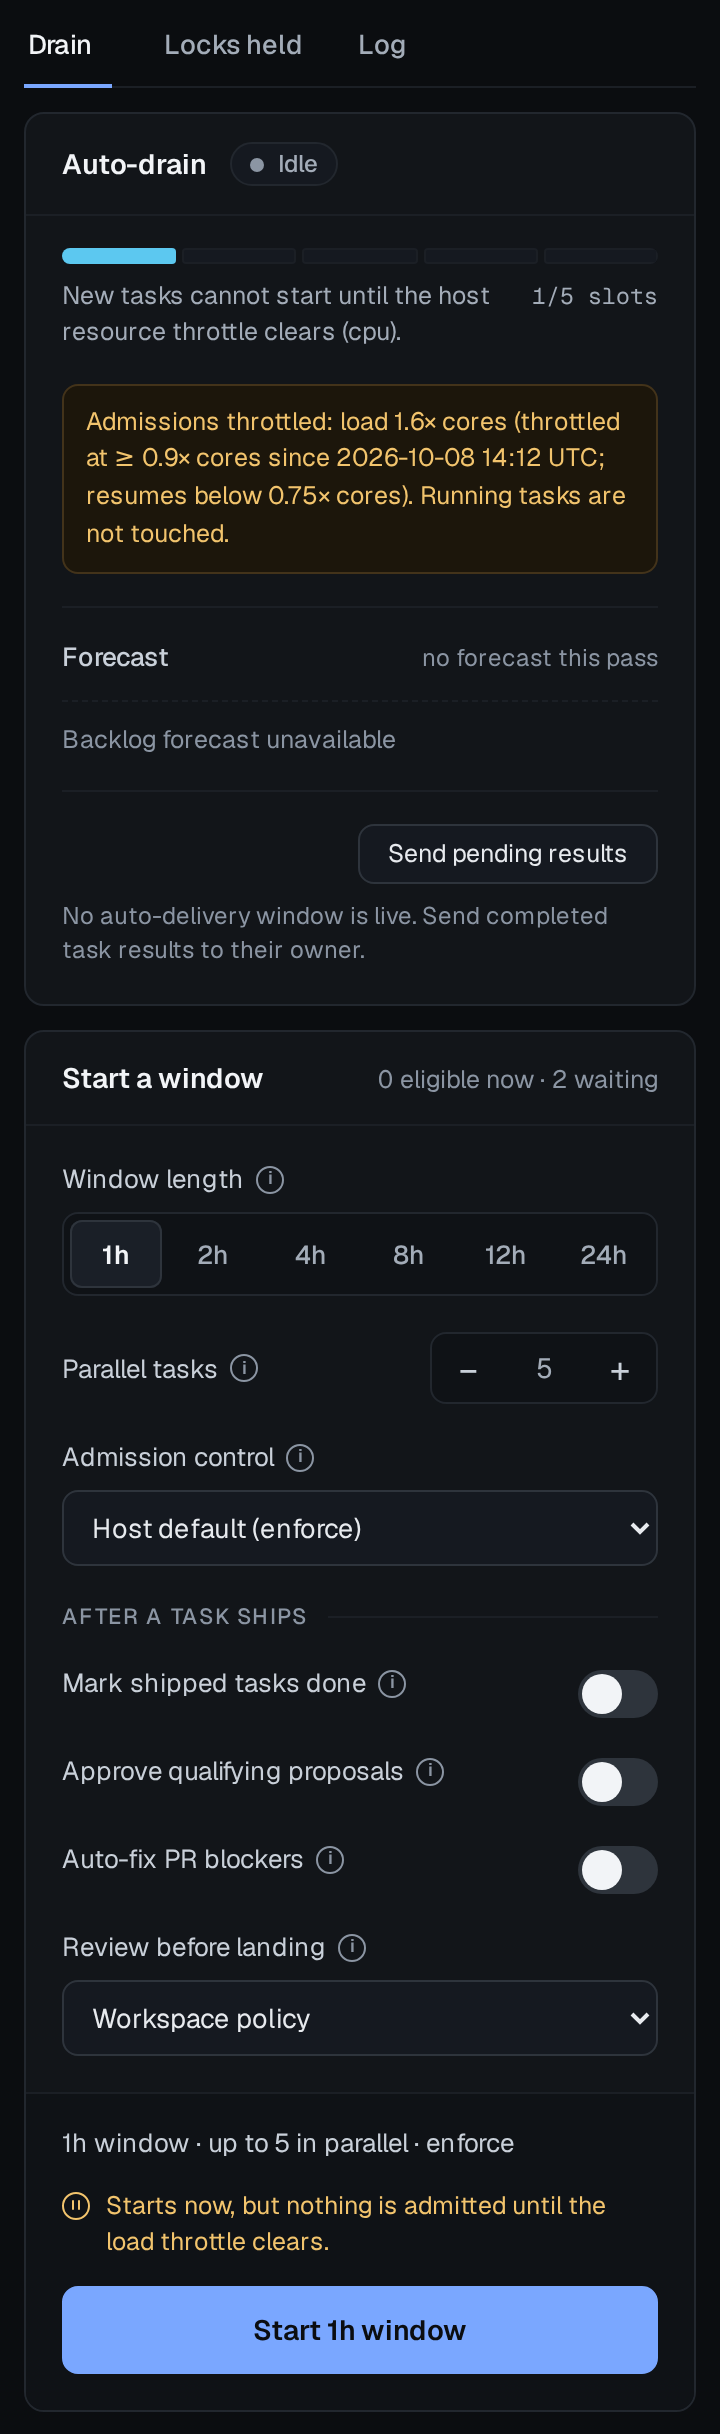
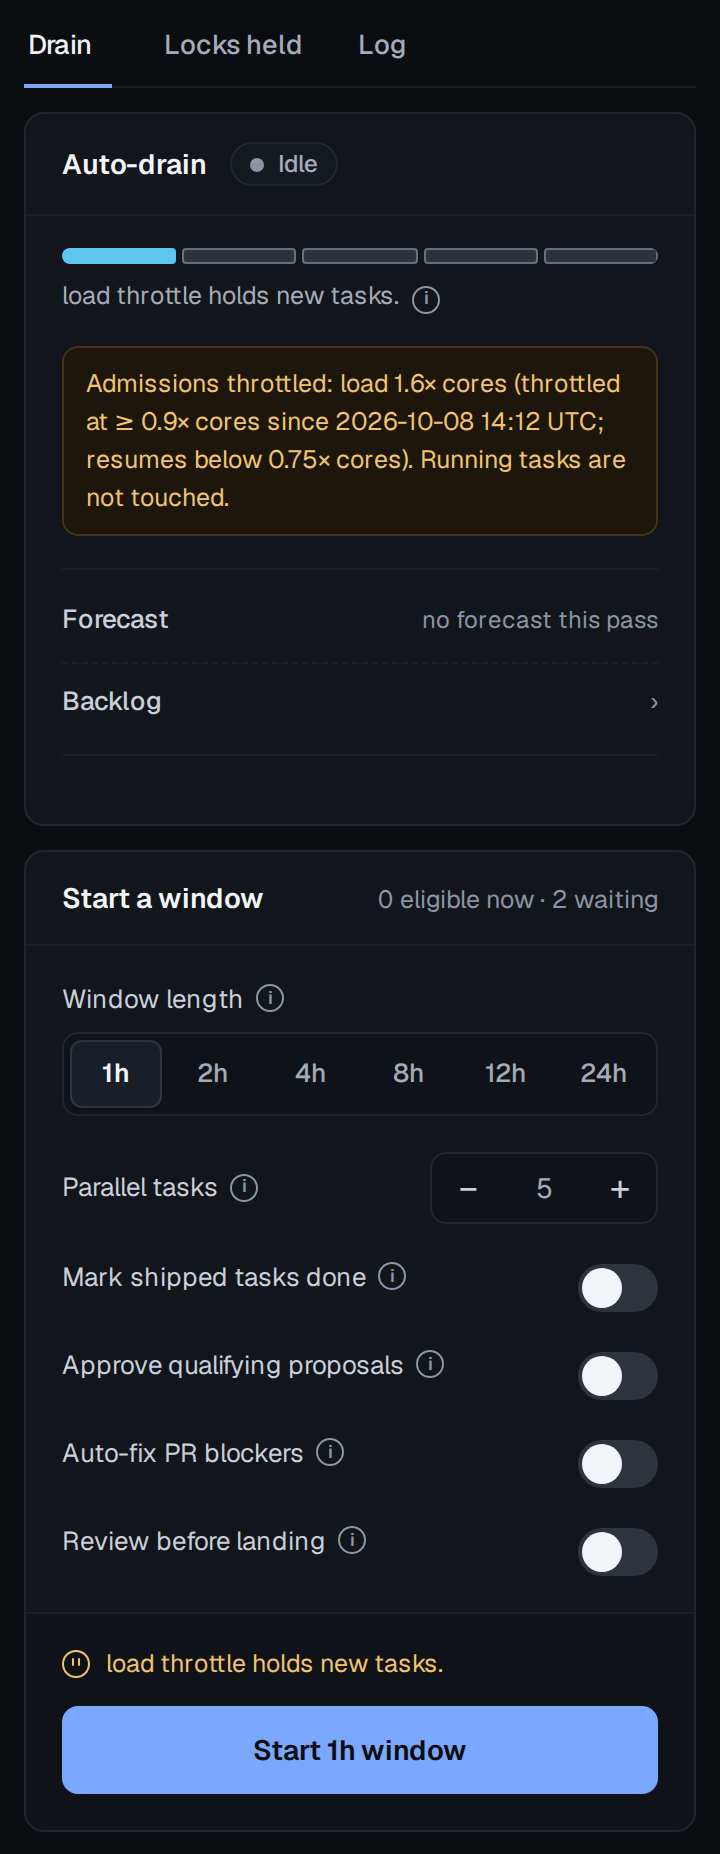
chore: Regenerate the website dashboard screenshots: dashboard-tasks.pn… [ORB-22929]
Regenerate the website dashboard screenshots: dashboard-tasks.png predates the current rail, dock and drain card

diff --git a/website/scripts/dashboard-shots/README.md b/website/scripts/dashboard-shots/README.md
@@ -5,9 +5,9 @@ running dashboard by `capture.mjs`. It only reads: it opens views and one
 run's detail. It never presses Approve, Ship, Start, or any other action.
 
 Regenerate them after a release that changes the dashboard, with the dashboard
-running (`orbit web serve`, or `orbit web connect <host>`). Five of the six
-come from synthetic data, so the published pages show no live task titles,
-user names, or host names:
+running (`orbit web serve`, or `orbit web connect <host>`). All six published
+images use synthetic data, so they show no live task titles, user names, or
+host names:
 
 ```bash
 npm --prefix .orbit/tmp/orbit-playwright install --no-save playwright
@@ -26,8 +26,9 @@ refresh clock come out the same on every capture. For the Drain shot only, the
 fixture holds admissions on a CPU throttle, so the Tasks dock shows its throttle
 note; the other captures keep an unthrottled host.
 
-The run detail uses a dated live capture. The script replaces its task,
-friction and run identifiers with demo labels in the capture DOM before
+The published run-detail image is a synthetic successful
+`task_pr_pipeline` sample. For a live run-detail capture, the script replaces
+identifier-shaped task, friction and run labels in the capture DOM before
 taking the screenshot; the server's records are unchanged. Pick a successful
 `task_pr_pipeline` run and capture it by id:
 
@@ -81,17 +82,19 @@ pixels even when the capture script sanitizes text.
 
 | File | Size (px) | Shows | Used on |
 |---|---|---|---|
-| `dashboard-tasks.png` | 2880 × 1732 | The whole Tasks view: top bar with host resources and the refresh clock, the rail, status cards, and the Drain dock | Quickstart, Use the Dashboard |
-| `dashboard-approve-ship.png` | 1648 × 1416 | The task list: Awaiting approval with **Approve**, In progress with **View run**, Backlog with its readiness strip and **Ship** | First Task |
-| `dashboard-run-detail.png` | 2396 × 1782 | A successful `task_pr_pipeline` run and its step timeline | First Task |
-| `dashboard-drain-card.png` | 720 × 2434 | The Tasks dock: Auto-drain status, throttle note and Start a window | Delivery Workflows, Use the Dashboard |
+| `dashboard-tasks.png` | 2880 × 1732 | The Tasks view with status filters, task cards, the Drain dock, and host readings and clock in the rail foot | Quickstart, Use the Dashboard |
+| `dashboard-approve-ship.png` | 1744 × 988 | Task cards with **Approve**, **View run**, and **Ship** actions | First Task |
+| `dashboard-run-detail.png` | 2396 × 1892 | A synthetic successful `task_pr_pipeline` run, its Jobs › History back link, and 21-step timeline | First Task |
+| `dashboard-drain-card.png` | 720 × 1854 | The Tasks dock with its throttle status and 1–24 hour Start a window controls | Delivery Workflows, Use the Dashboard |
 | `dashboard-automation.png` | 2880 × 2092 | Automation → Routines with the sweep clock, filter, Next hour, Active group and collapsed Paused group | Use the Dashboard, Schedule Recurring Work |
-| `dashboard-hosts.png` | 2348 × 498 | Settings → Hosts add control and host table with each host's health | Use the Dashboard |
+| `dashboard-hosts.png` | 2348 × 498 | Settings → Hosts add control and host table with local health and unreachable-host status | Use the Dashboard |
 
-Four were captured on 2026-10-10 from the redesigned dashboard (status-card
-task list, Drain and Log dock, full-width top bar). The Drain image was
-recaptured on 2026-10-28 after the standalone Drain page was removed. The
-Automation image was recaptured on 2026-11-06 to show the routine filter,
-bounded groups, and collapsed Paused disclosure. The run detail shows a
-red-CI fix, 21 steps in 20m 35s, with its artifact identifiers replaced by
-demo labels. Its counts are from that moment, not live.
+All six images were checked against the current dashboard on 2026-11-08. The
+Tasks, approval, Drain, Automation and Hosts images were regenerated with
+`--fixture-core`, which intercepts dashboard API reads and uses synthetic
+workspace and host data. The run-detail image is a synthetic successful
+`task_pr_pipeline` sample with demo task and host labels; its dates and timing
+are illustrative. For live run-detail captures, the script replaces
+identifier-shaped task, friction and run labels in the capture DOM. Inspect
+the rendered pixels for task titles, user names, host names and paths before
+publishing a live capture.

diff --git a/website/src/content/docs/how-to/dashboard.md b/website/src/content/docs/how-to/dashboard.md
@@ -10,7 +10,7 @@ errors, automation, and settings. It has no login and binds to loopback only.
 To use another machine's dashboard, tunnel to it over SSH, or switch to a
 registered host with the host picker.
 
-![The dashboard's Tasks view: the top bar with the host's load, memory, and disk and the refresh clock, tasks in status cards with Approve, View run, and Ship, and the Drain dock on the right.](../../../assets/dashboard/dashboard-tasks.png)
+![The Tasks view: status filters and task cards with Approve, View run and Ship, Drain, Locks held and Log dock tabs, and host load, memory and disk readings in the rail foot.](../../../assets/dashboard/dashboard-tasks.png)
 
 ## Open it locally
 
@@ -568,7 +568,7 @@ Old `#drain`, `#drain/start` and `#drain/log` bookmarks open Tasks with the
 auto-drain card, Start card or Log selected. The dock keeps the throttle as an
 amber note and forecast peaks as compact meters against their thresholds.
 
-![The Tasks dock: Drain, Locks held and Log tabs above Auto-drain status, a host-throttle note, admission forecast and the Start a window controls.](../../../assets/dashboard/dashboard-drain-card.png)
+![The Tasks dock with Drain, Locks held and Log tabs, an Auto-drain card showing the load throttle hold, and Start a window controls for 1 to 24 hours.](../../../assets/dashboard/dashboard-drain-card.png)
 
 The card shows:
 
@@ -2007,7 +2007,7 @@ Open **Settings › Hosts** (`#config/hosts`) to manage the serving machine's
 [`hosts.toml`](../../reference/config/#host-registry). Through
 `orbit web connect`, this is the remote machine's registry.
 
-![Settings › Hosts: Add host, the local host labelled local · edited here with its load, memory, disk, and drain health, and an unreachable remote with its error code, Rename and Remove controls.](../../../assets/dashboard/dashboard-hosts.png)
+![Settings › Hosts: Add host, a local demo host with its workspace and health readings, and an unreachable remote with its error status, Rename and Remove controls.](../../../assets/dashboard/dashboard-hosts.png)
 
 Captured on 2026-10-10 from an isolated demo registry.
 `build-box.invalid` is an intentionally unreachable example SSH target.

diff --git a/website/src/content/docs/getting-started/first-task.md b/website/src/content/docs/getting-started/first-task.md
@@ -41,7 +41,7 @@ The **Context files** tab lists the files and directories the task expects to
 change. Orbit locks them for the run, so an overlapping task waits its turn.
 Markdown files are shared rather than locked by default.
 
-![The Tasks list: a proposed task under Awaiting approval with Approve, a task in progress with its host and View run, and backlog tasks with Ship.](../../../assets/dashboard/dashboard-approve-ship.png)
+![Task cards showing a proposed task with Approve, an in-progress task with View run, and backlog tasks with Ship.](../../../assets/dashboard/dashboard-approve-ship.png)
 
 You can also tell your agent to approve it. Either way, approval is an
 explicit step, recorded in the task's history; nothing approves a task on its
@@ -55,7 +55,7 @@ the change. Click **View run** to follow each step live. A second agent reviews
 the change only when review is turned on: `review.timing` is off by default, and
 [Review layers](../../concepts/tasks/#review-layers) explains how to enable it.
 
-![A finished ship run: its job, task, state, duration, and host, and a step timeline from worktree through implement, validate, review gate, and push to pr_open.](../../../assets/dashboard/dashboard-run-detail.png)
+![A synthetic successful task_pr_pipeline run for Update the dashboard walkthrough, with a Jobs › History back link and a 21-step timeline.](../../../assets/dashboard/dashboard-run-detail.png)
 
 Asking your agent to ship it starts the same run. In the default `pr` ship
 mode, the run ends by opening a pull request.

diff --git a/website/src/content/docs/getting-started/workflows.md b/website/src/content/docs/getting-started/workflows.md
@@ -77,7 +77,7 @@ file locks.
 | Agent | "Drain the backlog for four hours, eight at a time." |
 | CLI | `orbit run auto --for 4h --concurrency 8` |
 
-![The Tasks dock with Auto-drain status, a throttle note and Start a window](../../../assets/dashboard/dashboard-drain-card.png)
+![The Tasks dock's Drain, Locks held and Log tabs, an Auto-drain card showing a CPU load throttle hold, and Start a window controls for 1 to 24 hours.](../../../assets/dashboard/dashboard-drain-card.png)
 
 The window bounds only when new work starts; a task already running when it
 closes still finishes. The **Start a window** card's eligible and waiting

diff --git a/website/src/content/docs/getting-started/index.md b/website/src/content/docs/getting-started/index.md
@@ -50,7 +50,7 @@ orbit web serve
 The dashboard opens at `http://127.0.0.1:7878` and serves every workspace on
 this machine. Keep it running in its own terminal.
 
-![The dashboard's Tasks view: tasks grouped by status, with Approve and Ship buttons, and the Drain card on the right.](../../../assets/dashboard/dashboard-tasks.png)
+![The Tasks view's status cards with Approve, View run and Ship actions, and the Drain, Locks held and Log dock tabs.](../../../assets/dashboard/dashboard-tasks.png)
 
 | Section | What you do there |
 |---|---|
